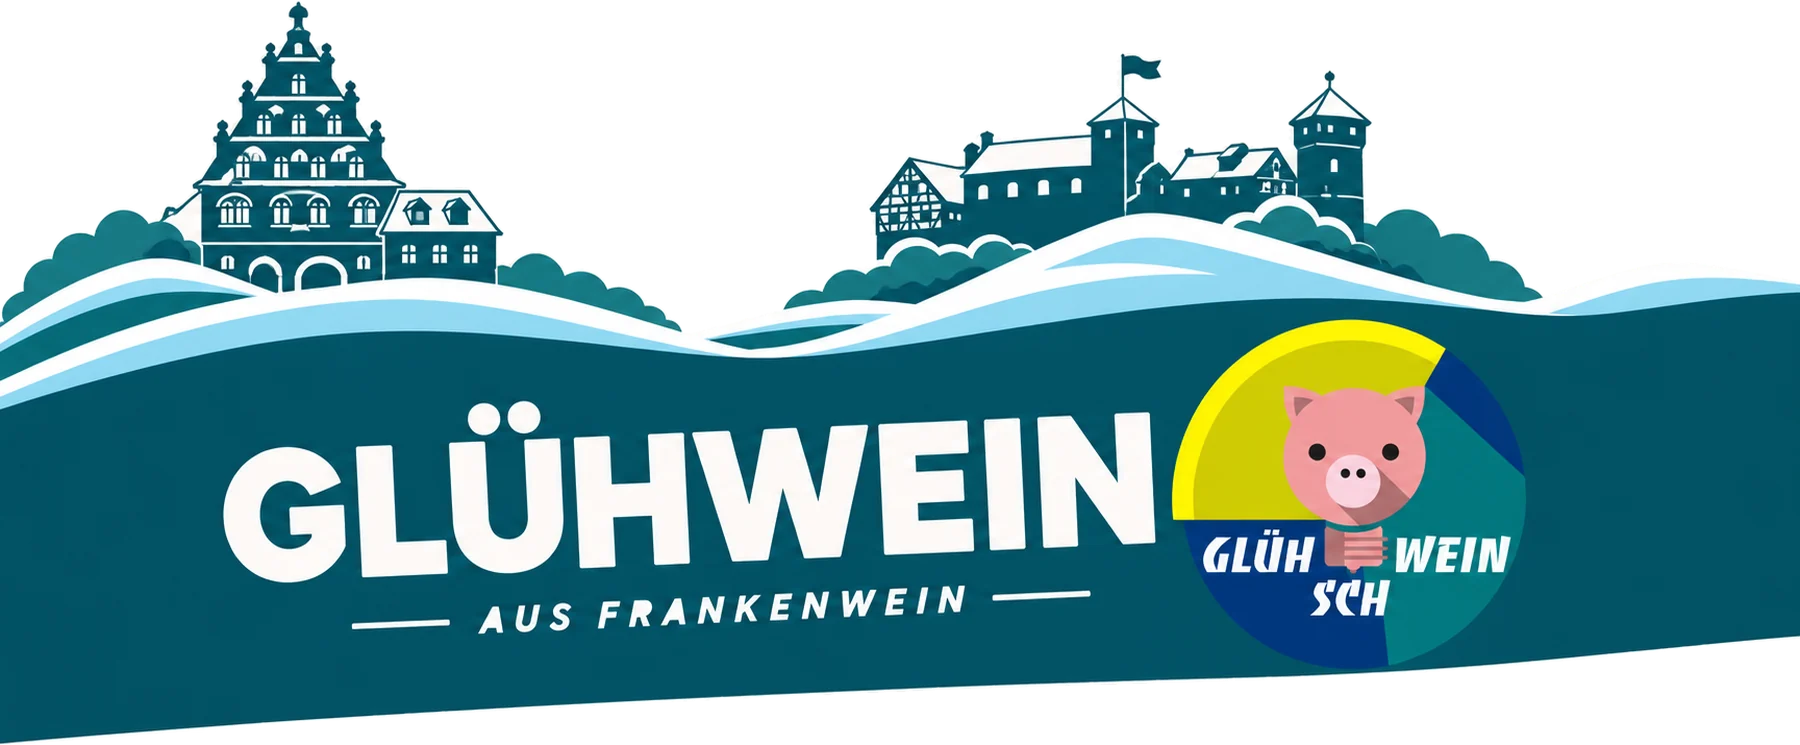
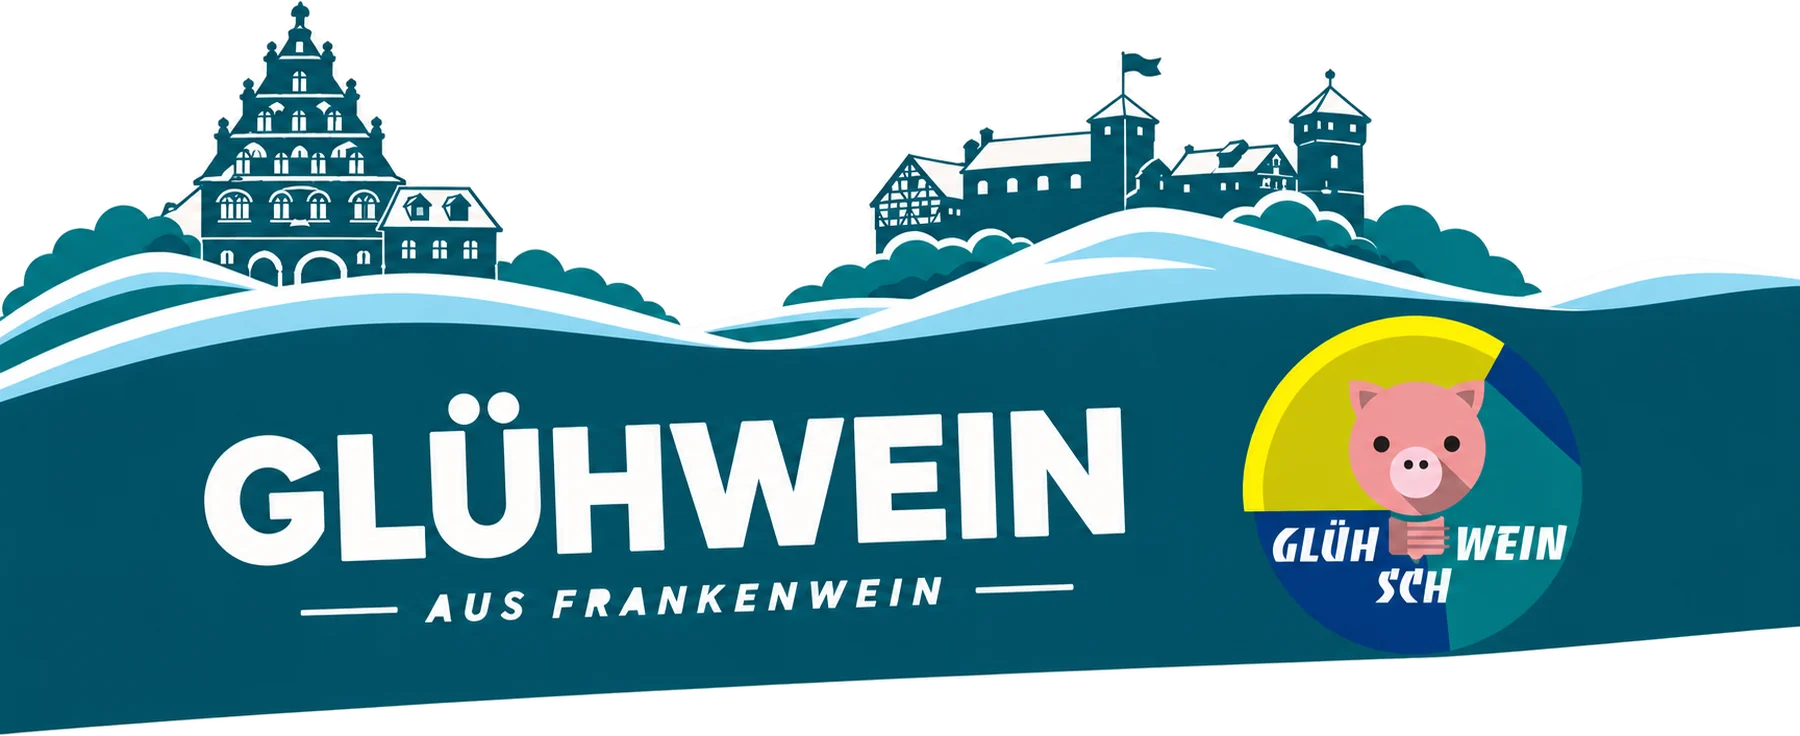
Einstiegsbild durch neue Fassung ersetzt
Claude-Session: https://claude.ai/code/session_01ML14UvAViDyJv3Sy3Ftcsk

diff --git a/index.html b/index.html
@@ -51,7 +51,7 @@
   <!-- ===================== HOME ===================== -->
   <section class="hero" id="home" aria-labelledby="hero-titel">
     <h1 class="sr-only" id="hero-titel">Glühschwein – Die gute Bude am Spielzeugmuseum, Nürnberg</h1>
-    <img class="hero__bild" src="bilder/einstieg.webp" width="1800" height="745" alt="Glühwein aus Frankenwein – verschneite Nürnberger Altstadt mit Burg und dem Glühschwein-Logo" fetchpriority="high">
+    <img class="hero__bild" src="bilder/einstieg.webp?v=2" width="1800" height="736" alt="Glühwein aus Frankenwein – verschneite Nürnberger Altstadt mit Burg und dem Glühschwein-Logo" fetchpriority="high">
 
     <div class="huelle">
       <p class="hero__intro">Hausgemacht, fränkisch und weniger süß als der übliche: Unser Glühwein kommt aus Frankenwein. Dazu gibt's Bier, Weckla und Brotzeit – im überdachten Innenhof vom Spielzeugmuseum, a weng abseits vom Christkindlesmarkt-Trubel.</p>
